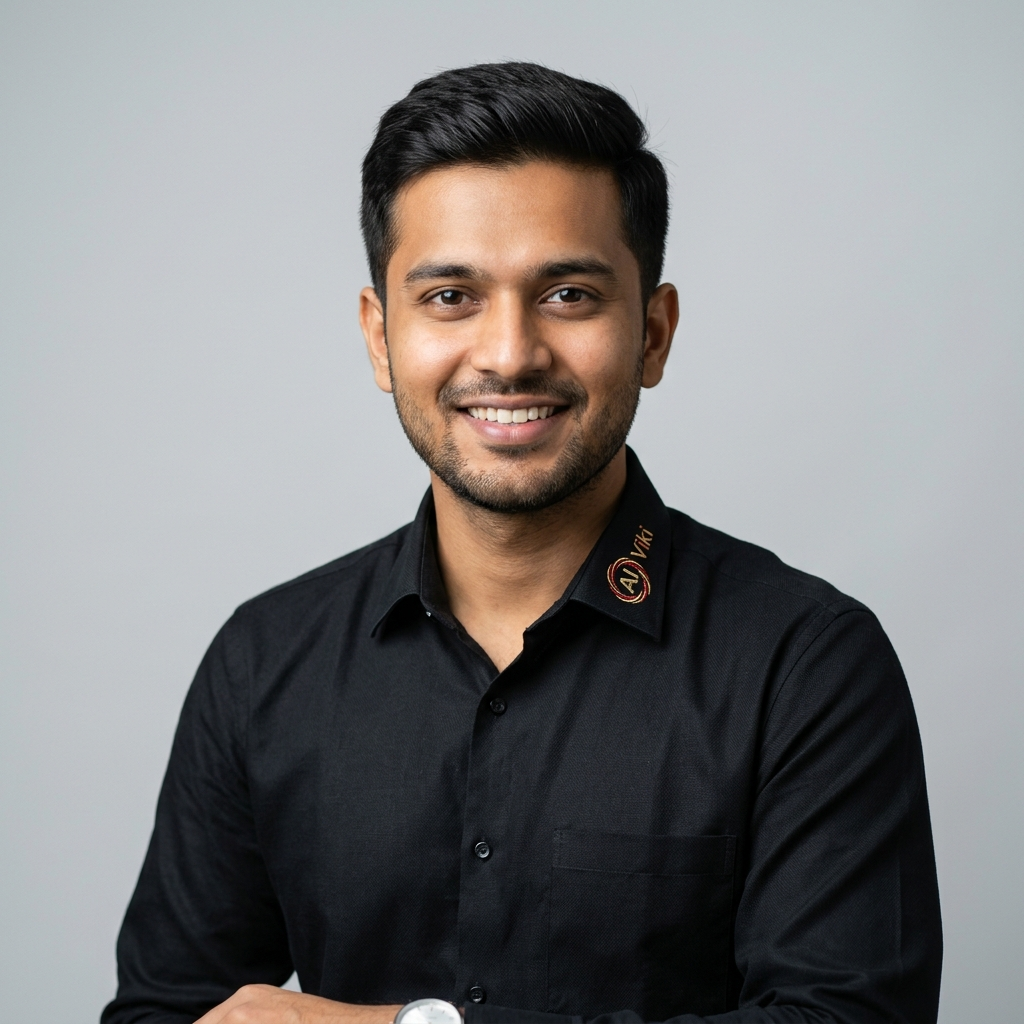
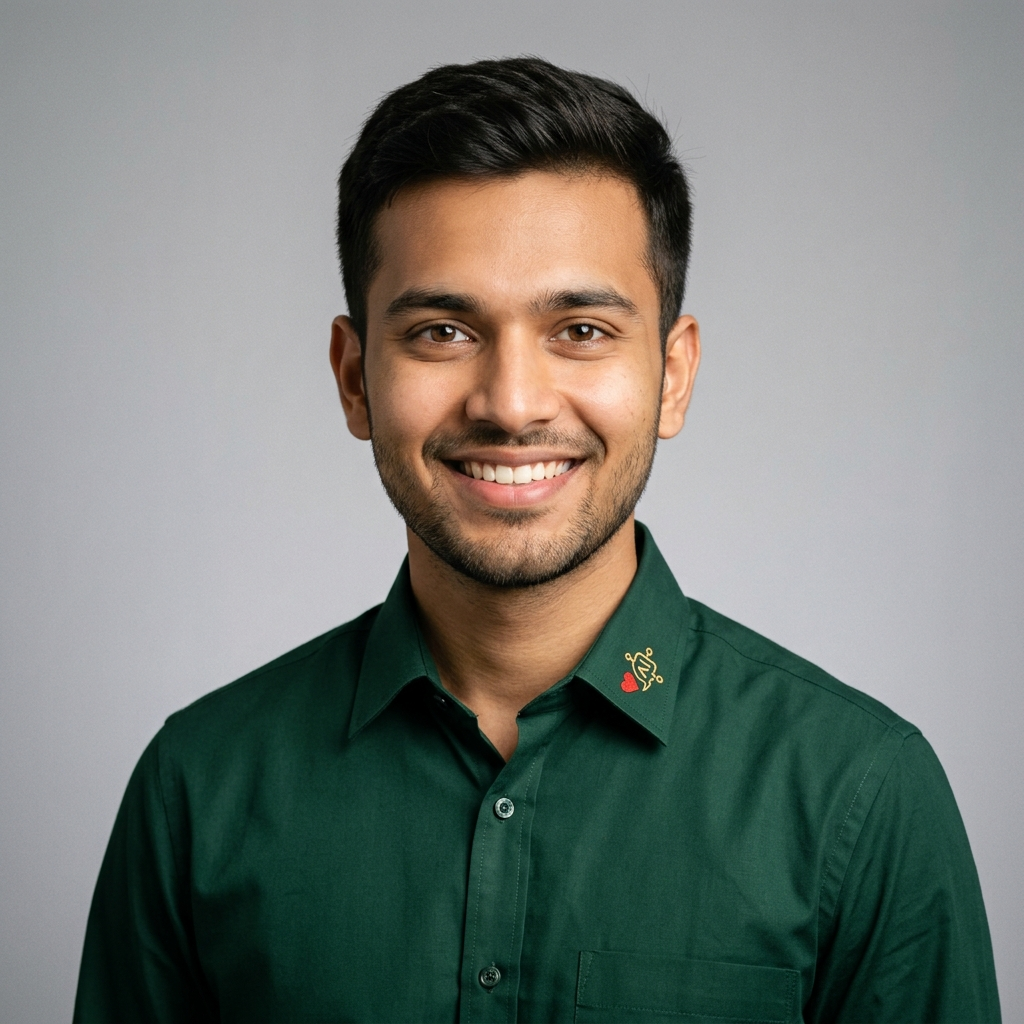
Update Viki chatbot dress color, top text, modal background and non-cropped green status dot

diff --git a/src/App.jsx b/src/App.jsx
@@ -3600,43 +3600,48 @@ export default function App() {
 
         {/* Floating Chatbot Bubble Button */}
         {!isChatOpen && (
-          <button
-            onClick={() => setIsChatOpen(true)}
-            className="w-12 h-12 rounded-full overflow-hidden border-2 border-[#d10000] dark:border-[#ffec4e] shadow-[0_8px_24px_rgba(209,0,0,0.3)] dark:shadow-[0_8px_24px_rgba(255,236,78,0.2)] hover:scale-110 active:scale-95 transition-all duration-300 relative group cursor-pointer"
-            aria-label="Ask Viki AI Chatbot"
-          >
-            <img 
-              src="/viki_avatar.png" 
-              alt="Viki" 
-              className="w-full h-full object-cover"
-            />
-            {/* Pulsing online status indicator */}
-            <span className="absolute top-0 right-0 w-3 h-3 bg-emerald-500 rounded-full border-2 border-white dark:border-zinc-950 animate-pulse" />
-          </button>
+          <div className="relative">
+            <button
+              onClick={() => setIsChatOpen(true)}
+              className="w-12 h-12 rounded-full overflow-hidden border-2 border-[#d10000] dark:border-[#ffec4e] shadow-[0_8px_24px_rgba(209,0,0,0.3)] dark:shadow-[0_8px_24px_rgba(255,236,78,0.2)] hover:scale-110 active:scale-95 transition-all duration-300 relative group cursor-pointer"
+              aria-label="Ask Viki AI Chatbot"
+            >
+              <img 
+                src="/viki_avatar.png" 
+                alt="Viki" 
+                className="w-full h-full object-cover"
+              />
+            </button>
+            {/* Pulsing online status indicator outside button to prevent cropping */}
+            <span className="absolute -top-0.5 -right-0.5 w-3.5 h-3.5 bg-emerald-500 rounded-full border-2 border-[#f8f5ea] dark:border-[#0a0908] z-10 animate-pulse pointer-events-none" />
+          </div>
         )}
 
         {/* Chat Window Panel */}
         {isChatOpen && (
-          <div className="w-80 sm:w-96 max-w-[90vw] h-[480px] max-h-[70vh] bg-white/95 dark:bg-zinc-950/95 backdrop-blur-xl border border-black/10 dark:border-white/15 rounded-3xl shadow-2xl overflow-hidden flex flex-col transform origin-bottom-right transition-all duration-300 ease-out scale-100 translate-y-0 animate-in fade-in slide-in-from-bottom-4">
+          <div className="w-80 sm:w-96 max-w-[90vw] h-[480px] max-h-[70vh] bg-[#ffec4e] dark:bg-[#17202A] border border-black/10 dark:border-white/15 rounded-3xl shadow-2xl overflow-hidden flex flex-col transform origin-bottom-right transition-all duration-300 ease-out scale-100 translate-y-0 animate-in fade-in slide-in-from-bottom-4">
             
             {/* Header */}
-            <div className="flex items-center justify-between px-5 py-4 border-b border-black/5 dark:border-white/10 bg-[#f5f5dd] dark:bg-zinc-900/60 transition-colors">
+            <div className="flex items-center justify-between px-5 py-4 border-b border-black/5 dark:border-white/10 bg-black/5 dark:bg-white/5 transition-colors">
               <div className="flex items-center gap-3">
-                <div className="relative w-9 h-9 rounded-full overflow-hidden border border-black/10 dark:border-white/10">
-                  <img src="/viki_avatar.png" alt="Viki" className="w-full h-full object-cover" />
-                  <span className="absolute bottom-0 right-0 w-2.5 h-2.5 bg-emerald-500 rounded-full border-2 border-white dark:border-zinc-900" />
+                <div className="relative w-9 h-9">
+                  <div className="w-full h-full rounded-full overflow-hidden border border-black/10 dark:border-white/10">
+                    <img src="/viki_avatar.png" alt="Viki" className="w-full h-full object-cover" />
+                  </div>
+                  {/* Green status indicator outside overflow-hidden to prevent cropping */}
+                  <span className="absolute -bottom-0.5 -right-0.5 w-3 h-3 bg-emerald-500 rounded-full border-2 border-[#ffec4e] dark:border-[#17202A] z-10" />
                 </div>
                 <div>
                   <div className="flex items-center gap-1.5">
                     <span className="font-heading font-black text-xs text-zinc-900 dark:text-white transition-colors">Viki</span>
-                    <span className="text-[8px] bg-[#d10000]/10 dark:bg-[#ffec4e]/10 text-[#d10000] dark:text-[#ffec4e] px-1.5 py-0.5 rounded-full font-brand font-extrabold uppercase tracking-wider">Assistant</span>
+                    <span className="text-[8px] bg-[#d10000]/10 dark:bg-white/10 text-[#d10000] dark:text-[#ffec4e] px-1.5 py-0.5 rounded-full font-brand font-extrabold uppercase tracking-wider">AI Assistant</span>
                   </div>
-                  <span className="text-[10px] text-zinc-500 dark:text-zinc-400 font-body">Online | Vignette Team</span>
+                  <span className="text-[10px] text-zinc-600 dark:text-zinc-400 font-body">Online</span>
                 </div>
               </div>
               <button 
                 onClick={() => setIsChatOpen(false)}
-                className="p-1.5 rounded-full hover:bg-black/5 dark:hover:bg-white/10 text-zinc-500 dark:text-zinc-400 hover:text-zinc-800 dark:hover:text-white transition-colors cursor-pointer"
+                className="p-1.5 rounded-full hover:bg-black/5 dark:hover:bg-white/10 text-zinc-600 dark:text-zinc-400 hover:text-zinc-900 dark:hover:text-white transition-colors cursor-pointer"
               >
                 <X className="w-4 h-4" />
               </button>
@@ -3650,14 +3655,18 @@ export default function App() {
                   className={`flex gap-2 max-w-[85%] ${msg.sender === 'user' ? 'self-end flex-row-reverse' : 'self-start'}`}
                 >
                   {msg.sender === 'viki' && (
-                    <div className="w-6 h-6 rounded-full overflow-hidden border border-black/5 flex-shrink-0 mt-0.5">
-                      <img src="/viki_avatar.png" alt="Viki" className="w-full h-full object-cover" />
+                    <div className="relative w-6 h-6">
+                      <div className="w-full h-full rounded-full overflow-hidden border border-black/5">
+                        <img src="/viki_avatar.png" alt="Viki" className="w-full h-full object-cover" />
+                      </div>
+                      {/* Green status indicator outside overflow-hidden to prevent cropping */}
+                      <span className="absolute -bottom-0.5 -right-0.5 w-2 h-2 bg-emerald-500 rounded-full border border-[#ffec4e] dark:border-[#17202A] z-10" />
                     </div>
                   )}
                   <div className={`p-3 rounded-2xl leading-relaxed shadow-sm ${
                     msg.sender === 'user' 
                       ? 'bg-[#d10000] text-white dark:bg-[#ffec4e] dark:text-black rounded-tr-none' 
-                      : 'bg-zinc-100 dark:bg-zinc-900 text-zinc-800 dark:text-zinc-200 rounded-tl-none border border-black/5 dark:border-white/5'
+                      : 'bg-white/90 dark:bg-zinc-900/80 text-zinc-800 dark:text-zinc-200 rounded-tl-none border border-black/5 dark:border-white/5'
                   }`}>
                     {msg.text}
 
@@ -3681,7 +3690,7 @@ export default function App() {
             </div>
 
             {/* Conversation Controls (MCQs) */}
-            <div className="p-4 border-t border-black/5 dark:border-white/10 bg-zinc-50/50 dark:bg-zinc-900/30">
+            <div className="p-4 border-t border-black/5 dark:border-white/10 bg-black/5 dark:bg-black/20">
               <div className="flex flex-col gap-2 max-h-40 overflow-y-auto pr-1">
                 {chatStep === 'welcome' && [
                   'Hire for Video Editing (PAID)',
